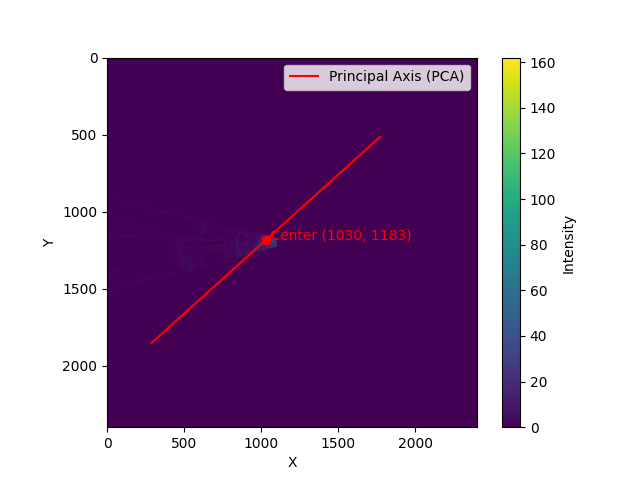
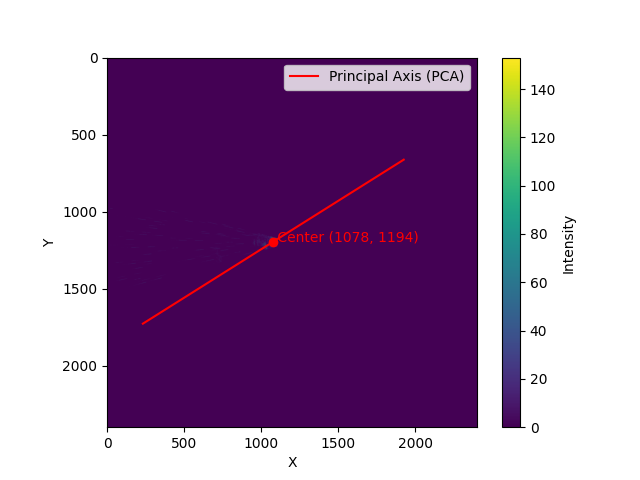
crush pre semi day commit

diff --git a/onboard/src/task_planning/task_planning/tasks/comp_tasks.py b/onboard/src/task_planning/task_planning/tasks/comp_tasks.py
@@ -693,7 +693,7 @@ async def yaw_to_cv_object(self: Task, cv_object: CVObjectType, direction=1,
     """
     DEPTH_LEVEL = State().orig_depth - depth_level
     MAXIMUM_YAW = math.radians(35)
-    SCALE_FACTOR = 0.5 # How much the correction should be scaled down from yaw calculation
+    SCALE_FACTOR = 0.4 # How much the correction should be scaled down from yaw calculation
 
     logger.info('Starting yaw_to_cv_object')
 
@@ -709,9 +709,9 @@ async def yaw_to_cv_object(self: Task, cv_object: CVObjectType, direction=1,
         if cv_x > 10:
             yaw_threshold = desired_yaw * 2
         if cv_x > 6:
-            yaw_threshold = desired_yaw * 1.5
+            yaw_threshold = desired_yaw * 1.75
         else:
-            yaw_threshold = desired_yaw * 1
+            yaw_threshold = desired_yaw * 1.25
 
         return yaw_threshold
 
@@ -725,19 +725,32 @@ async def yaw_to_cv_object(self: Task, cv_object: CVObjectType, direction=1,
             # await correct_depth()
             await Yield()
 
+    def robust_yaw_average(yaws):
+        yaws_sorted = sorted(yaws)
+        trimmed = yaws_sorted[1:-1]  # remove min and max
+        return sum(trimmed) / len(trimmed)
+
     # Yaw until object detection
     # await correct_depth()
-    await yaw_until_object_detection()
-
+    status = await yaw_until_object_detection()
     logger.info(f'{cv_object} detected. Now centering {cv_object} in frame...')
 
     # Center detected object in camera frame
-    cv_object_yaw = CV().bounding_boxes[cv_object].yaw
+
+    # Take average of 5 numbers and
+    cv_yaws = []
+    for i in range(0,5):
+        cv_yaws.append(CV().bounding_boxes[cv_object].yaw)
+        await util_tasks.sleep(0.5, parent = self)
+
+    cv_object_yaw = robust_yaw_average(cv_yaws)
+
     await correct_depth()
     logger.info(f'abs(cv_object_yaw): {abs(cv_object_yaw)}')
     logger.info(f'yaw_threshold: {yaw_threshold}')
 
-    while abs(cv_object_yaw) > get_yaw_threshold(yaw_threshold, CV().bounding_boxes[cv_object].coords.x):
+    step = 1
+    while abs(cv_object_yaw) > get_yaw_threshold(yaw_threshold, CV().bounding_boxes[cv_object].coords.x) and step <= 3:
         sign_cv_object_yaw = np.sign(cv_object_yaw)
         correction = get_step_size(SCALE_FACTOR*cv_object_yaw) # Scale down CV yaw value
 
@@ -756,12 +769,20 @@ async def yaw_to_cv_object(self: Task, cv_object: CVObjectType, direction=1,
         if (not CV().is_receiving_recent_cv_data(cv_object, latency_threshold)):
             logger.info(f'{cv_object} detection lost, running yaw_until_object_detection()')
             await yaw_until_object_detection()
+        
+        cv_yaws = []
+        for i in range(0,5):
+            cv_yaws.append(CV().bounding_boxes[cv_object].yaw)
+            await util_tasks.sleep(0.5, parent = self)
 
-        cv_object_yaw = CV().bounding_boxes[cv_object].yaw
+        cv_object_yaw = robust_yaw_average(cv_yaws)
+        step -= 1
 
-    logger.info(f'{cv_object} centered.')
+    logger.info(f'{cv_object} centered, or limit has been reached.')
 
     await correct_depth()
+
+    return False
 
 
 @task
@@ -1231,21 +1252,22 @@ async def octagon_task(self: Task, direction: int = 1) -> Task[None, None, None]
     """
     logger.info('Starting octagon task')
 
-    DEPTH_LEVEL_AT_BINS = State().orig_depth - 1.4 # Depth for beginning of task and corrections during forward movement
-    DEPTH_LEVEL_ABOVE_BINS = State().orig_depth - 1.0 # Depth for going above bin before forward move
+    DEPTH_LEVEL_AT_BINS = State().orig_depth - 1.3 # Depth for beginning of task and corrections during forward movement
+    DEPTH_LEVEL_ABOVE_BINS = State().orig_depth - 0.8 # Depth for going above bin before forward move
     LATENCY_THRESHOLD = 2 # Latency for seeing the bottom bin
-    CONTOUR_SCORE_THRESHOLD = 500 # Required bottom bin area for valid detection
+    CONTOUR_SCORE_THRESHOLD = 2000 # Required bottom bin area for valid detection
 
-    SCORE_THRESHOLD = 15000 # Area of bin before beginning surface logic for front camera
-    POST_FRONT_THRESHOLD_FORWARD_DISTANCE = 0.15 # in meters
+    SCORE_THRESHOLD = 7500 # Area of bin before beginning surface logic for front camera
+    POST_FRONT_THRESHOLD_FORWARD_DISTANCE = 0.3 # in meters
 
     # Forward navigation case constants
     LOW_SCORE = 1500
-    LOW_STEP_SIZE = 2
+    LOW_STEP_SIZE = 1.5
     MED_SCORE = 3500
-    MED_STEP_SIZE = 1.25
-    HIGH_SCORE = 7000
+    MED_STEP_SIZE = 1.0
+    HIGH_SCORE = 5000
     HIGH_STEP_SIZE = 0.75
+    
     VERY_HIGH_STEP_SIZE = 0.25
 
     # LOW_SCORE = 1000
@@ -1257,6 +1279,9 @@ async def octagon_task(self: Task, direction: int = 1) -> Task[None, None, None]
     # VERY_HIGH_STEP_SIZE = 0.25
 
     async def correct_depth(desired_depth):
+        if abs(State().depth - desired_depth) < 0.15:
+            logger.info(f'Depth delta is below threshold, skipping.')
+            return
         await move_tasks.correct_depth(desired_depth=desired_depth, parent=self)
 
     async def correct_yaw():
@@ -1319,8 +1344,11 @@ async def octagon_task(self: Task, direction: int = 1) -> Task[None, None, None]
             await correct_depth(DEPTH_LEVEL_AT_BINS if not moved_above else DEPTH_LEVEL_ABOVE_BINS)
             if not moved_above:
                 logger.info("Yawing to pink bin front")
-                await yaw_to_cv_object(CVObjectType.BIN_PINK_FRONT, direction=direction, yaw_threshold=math.radians(15),
-                                       depth_level=1.4, parent=Task.MAIN_ID)
+                status = await yaw_to_cv_object(CVObjectType.BIN_PINK_FRONT, direction=direction, yaw_threshold=math.radians(15),
+                                       depth_level=1.3, parent=Task.MAIN_ID)
+                if status:
+                    logger.info("Yaw limit reached, ending.")
+                    break
 
             logger.info(f'Bin pink front score: {CV().bounding_boxes[CVObjectType.BIN_PINK_FRONT].score}')
 
@@ -1352,7 +1380,13 @@ async def octagon_task(self: Task, direction: int = 1) -> Task[None, None, None]
         stabilize()
         await util_tasks.sleep(5, parent=self)
 
+    # async def face_fish(yaw_left: bool = True):
+    #     direction = 1 if yaw_left else -1
+    #     await orient_to_wall()
+    #     await yaw_from_local_pose(direction*np.pi/4)
+
     await move_to_pink_bins()
+    # await face_fish(yaw_left=True)
 
     logger.info('Surfacing...')
     await move_tasks.move_to_pose_local(geometry_utils.create_pose(0, 0, State().orig_depth - State().depth, 0, 0, 0),
@@ -1609,14 +1643,14 @@ async def orient_to_wall(self: Task[None, None, None],
         """
         Returns how much robot needs to yaw to be normal to surface it scans. Input degrees, output radians.
         """
-        yaw_in_degrees = sonar_normal - 90
+        yaw_in_degrees = sonar_normal
         return yaw_in_degrees * np.pi / 180
 
     sonar_output = await get_sonar_normal_angle()
 
-    if sonar_output != math.nan:
+    if not math.isnan(sonar_output):
         yaw_delta = convert_sonar_output_to_yaw(sonar_output)
-        logger.info(f"Yaw delta from sonar sweep: {yaw_delta} degrees")
+        logger.info(f"Yaw delta from sonar sweep: {yaw_delta} radians")
         # Move to the desired yaw angle
         await move_tasks.move_to_pose_local(
             geometry_utils.create_pose(0, 0, 0, 0, 0, yaw_delta),

diff --git a/onboard/src/sonar/sonar/sonar.py b/onboard/src/sonar/sonar/sonar.py
@@ -4,6 +4,7 @@ from pathlib import Path
 import time
 from sklearn.decomposition import PCA
 
+import cv2
 import numpy as np
 import rclpy
 import resource_retriever as rr
@@ -18,6 +19,7 @@ from sensor_msgs.msg import CompressedImage
 from serial.tools import list_ports
 from std_msgs.msg import String
 import matplotlib.pyplot as plt
+from matplotlib.backends.backend_agg import FigureCanvasAgg as FigureCanvas
 
 from sonar import sonar_image_processing, sonar_utils
 
@@ -376,10 +378,10 @@ class Sonar(Node):
             normal_angle_deg = np.degrees(normal_angle_rad)
             self.get_logger().info(f"Sonar: Got normal angle at {normal_angle_deg:.2f} degrees")
             # Normalize the normal angle to be within a specific range (e.g., -180 to 180)
-            if normal_angle_deg > 180:
-                normal_angle_deg -= 360
-            elif normal_angle_deg < -180:
-                normal_angle_deg += 360
+            if normal_angle_deg > 90:
+                normal_angle_deg -= 180
+            elif normal_angle_deg < -90:
+                normal_angle_deg += 180
 
             # print(f"Estimated normal angle (from PCA): {normal_angle_deg:.2f} degrees")
 
@@ -413,6 +415,14 @@ class Sonar(Node):
             plt.plot([start_point[1], end_point[1]], [start_point[0], end_point[0]], 'r-', label='Principal Axis (PCA)') # Note: plot takes [x_coords], [y_coords]
             plt.legend()
 
+        fig = plt.gcf()
+        canvas = FigureCanvas(fig)
+        canvas.draw()
+
+        image = np.frombuffer(canvas.tostring_argb(), dtype='uint8')
+        image = image.reshape((*fig.canvas.get_width_height()[::-1], 4))
+        plot_img = cv2.cvtColor(image[:, :, 1:], cv2.COLOR_RGB2BGR)
+
         # Converting stuff to fit return format:
         # Convert plt to array, and convert center_x and center_y to distances.
         converted_image_array = self.convert_plt_to_array(plot)
@@ -434,7 +444,7 @@ class Sonar(Node):
         plot.savefig("sonar_plot.png")
         self.get_logger().info(f"Sonar: Got pose at ({x_pos:.2f}, {y_pos:.2f}, 0.0)")
 
-        return (pose, converted_image_array, normal_angle_deg)
+        return (pose, plot_img, normal_angle_deg)
 
     def convert_plt_to_array(self, plt_fig:plt.Figure) -> np.ndarray:
         """

diff --git a/onboard/src/task_planning/task_planning/robot/crush.py b/onboard/src/task_planning/task_planning/robot/crush.py
@@ -27,7 +27,7 @@ async def main(self: Task) -> Task[None, None, None]:
 
         # || START 2025 COMP FLOW OCTAGON
         # comp_tasks.delineate_ivc_log(parent = self),
-        # comp_tasks.initial_submerge(-1.5, z_tolerance=0.15, enable_controls_flag=True, time_limit=10, parent=self),
+        comp_tasks.initial_submerge(-1.3, z_tolerance=0.15, enable_controls_flag=True, time_limit=10, parent=self),
         # comp_tasks.coin_flip(enable_same_direction=False, parent=self),
         # comp_tasks.gate_task_dead_reckoning(depth_level=-0.7, parent=self),
         # comp_tasks.gate_style_task(depth_level=1.1, parent=self),
@@ -35,11 +35,11 @@ async def main(self: Task) -> Task[None, None, None]:
         # comp_tasks.crush_ivc_send(msg_to_send = IVCMessageType.CRUSH_GATE,
         #      msg_to_receive = IVCMessageType.OOGWAY_ACKNOWLEDGE, timeout=90, parent=self),
         # comp_tasks.gate_to_octagon(timeout = 15, parent = self),
-        # comp_tasks.octagon_task(direction=1, parent = self),
+        comp_tasks.octagon_task(direction=1, parent = self),
 
         # SONAR
-        comp_tasks.initial_submerge(-0.3, z_tolerance=0.15, enable_controls_flag=True, time_limit=10, parent=self),
-        comp_tasks.orient_to_wall(start_angle=-15.0, end_angle=15.0, distance=20.0, parent=self),
+        # comp_tasks.initial_submerge(-0.3, z_tolerance=0.15, enable_controls_flag=True, time_limit=10, parent=self),
+        # comp_tasks.orient_to_wall(start_angle=-15.0, end_angle=15.0, distance=20.0, parent=self),
 
         # || END 2025 COMP FLOW OCTAGON
 

diff --git a/onboard/src/cv/cv/hsv_pink_bin_front.py b/onboard/src/cv/cv/hsv_pink_bin_front.py
@@ -15,6 +15,7 @@ class HSVPinkBinFront(hsv_filter.HSVFilter):
             camera='front',
             mask_ranges=[
                 [cv_constants.YellowBins.YELLOW_2_BOT, cv_constants.YellowBins.YELLOW_2_TOP],
+                # [cv_constants.YellowBins.YELLOW_3_BOT, cv_constants.YellowBins.YELLOW_3_TOP],
             ],
             width=cv_constants.Bins.WIDTH,
         )
@@ -70,8 +71,8 @@ class HSVPinkBinFront(hsv_filter.HSVFilter):
     def filter(self, contours: list) -> list:
         """Pick the largest and lowest contour only."""
         MIN_AREA = 100 # Minimum area of contour to be valid
-        THRESHOLD_RATIO = 0.5 # Contour within scaled of max contour area
-        DIST_THRESH = 35 # Group all contours within this threshold
+        THRESHOLD_RATIO = 0.75 # Contour within scaled of max contour area
+        DIST_THRESH = 25 # Group all contours within this threshold
 
         final_contours = sorted(contours, key=cv2.contourArea, reverse=True)
 
@@ -115,7 +116,7 @@ class HSVPinkBinFront(hsv_filter.HSVFilter):
 
     def morphology(self, mask: np.ndarray) -> np.ndarray:
         """Apply a kernel morphology."""
-        kernel = np.ones((5, 5), np.uint8)
+        kernel = np.ones((3, 3), np.uint8)
         return cv2.morphologyEx(mask, cv2.MORPH_OPEN, kernel)
 
 def main(args: list[str] | None = None) -> None:

diff --git a/onboard/src/cv/cv/config.py b/onboard/src/cv/cv/config.py
@@ -79,8 +79,11 @@ class YellowBins:
     YELLOW_1_BOT = np.array([30, 30, 40])
     YELLOW_1_TOP = np.array([60, 70, 95])
 
-    YELLOW_2_BOT = np.array([20, 30, 40])
-    YELLOW_2_TOP = np.array([60, 80, 100])
+    YELLOW_2_BOT = np.array([20, 45, 40])
+    YELLOW_2_TOP = np.array([60, 80, 90])
+
+    YELLOW_3_BOT = np.array([50, 45, 30])
+    YELLOW_3_TOP = np.array([75, 65, 55])
 
 class USBCamera(Enum):
     """Enum for different USB cameras."""
